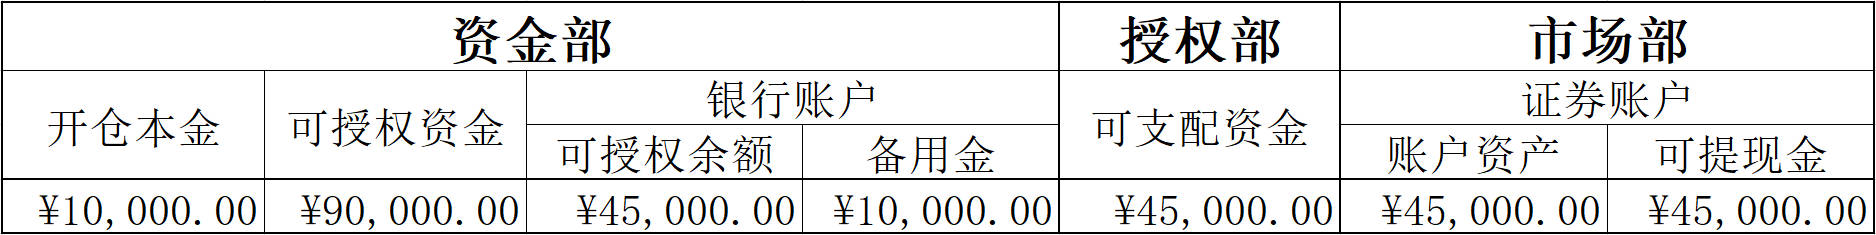
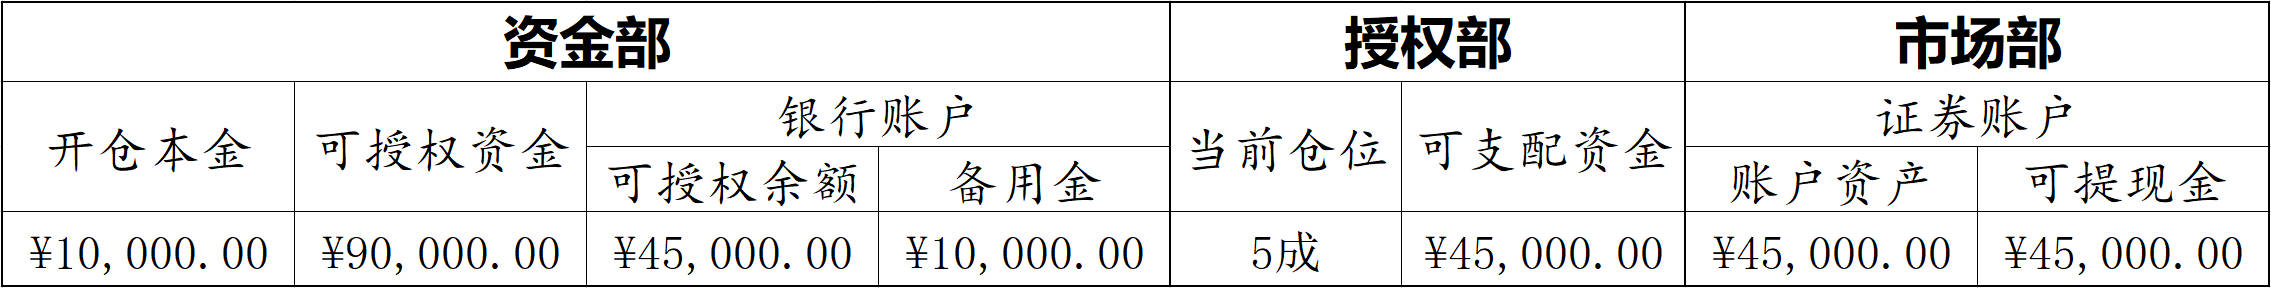
修正定义

Changed region(s): [[0.0, 0.0596, 1.0, 0.7745], [0.0, 0.8043, 1.0, 1.0], [0.0, 0.0, 1.0, 0.0298]]

diff --git a/README.md b/README.md
@@ -1,8 +1,6 @@
 # 资金管理与仓位控制<br>Fund Management and Position Control
 
-**资金管理**就是<u>对当前可支配资金额度上限的管理</u>，**仓位控制**就是<u>对当前是否购票及购买多少的控制</u>。
-
-所以，这里面就会涉及三重责任：一，资金保管责任。二，资金授权责任。三，资金使用责任。
+资金管理与仓位控制，涉及三重责任：一，资金保管责任。二，资金授权责任。三，资金使用责任。
 
 负责资金保管的，我们成立一个部门叫“资金部”。负责资金授权的，我们成立一个部门叫“授权部”。负责资金使用的，我们成立一个部门叫“市场部”。三部门的协作模式是：**资金部提供资金供授权部授权给市场部使用**。
 
@@ -17,6 +15,14 @@
 市场部的工作内容：合理利用授权部从资金部申请转入证券账户的资金，结合大盘控制仓位空轻重满。
 
 对于市场部的能力，选择<u>“赛马而不相马”</u>，通过授权部动态调节可支配资金上限的机制，最大限度地发挥市场部的投资才能，规避投资风险。这是一个奖励能者、惩罚庸者的有效机制：对于能者，则一步步增加其调配资金的权力；对于庸者，则一步步削弱其调配资金的权力。
+
+**资金管理**就是<u>将开仓本金分为备用金和可授权资金</u>，**仓位控制**就是<u>根据盈亏限制使用可授权资金的额度</u>。
+
+> 炒股就好比打仗，资金管理就是对部队的管理，全军要分为预备役部队和现役部队。
+>
+> 仓位控制就是司令部根据将军的能力，对将军个人能够调动现役部队的规模的限制。
+>
+> 将军点兵后出征，按照既定的战法、经验，根据战场形势变化，自行布军组织作战。
 
 ### 开仓规则
 
